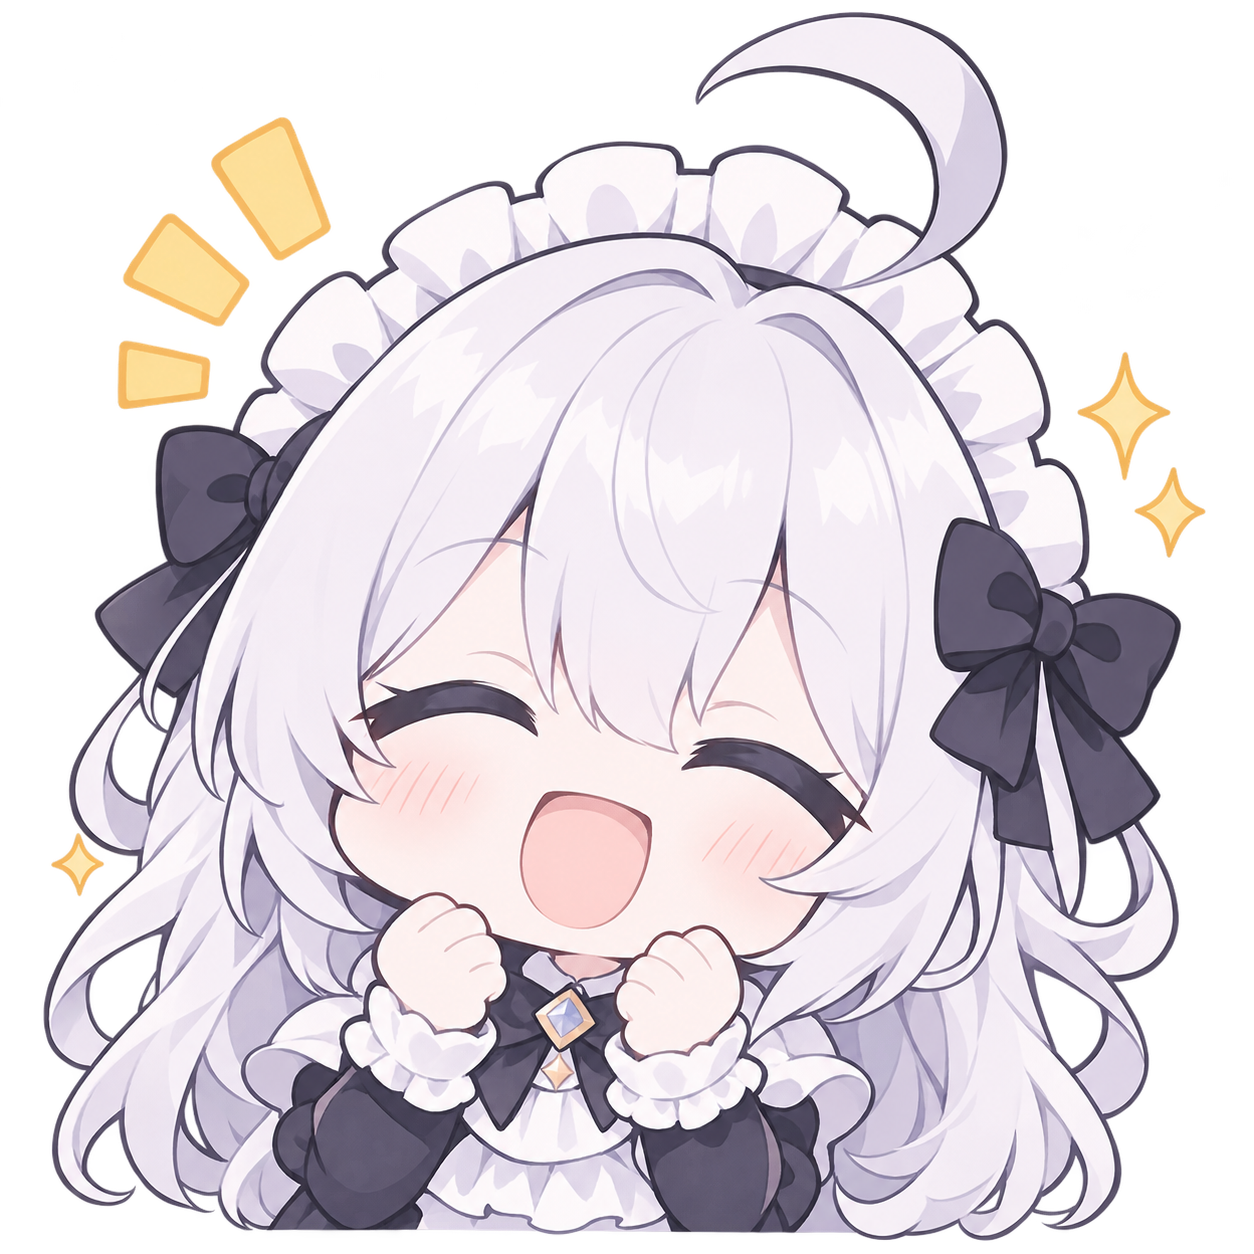
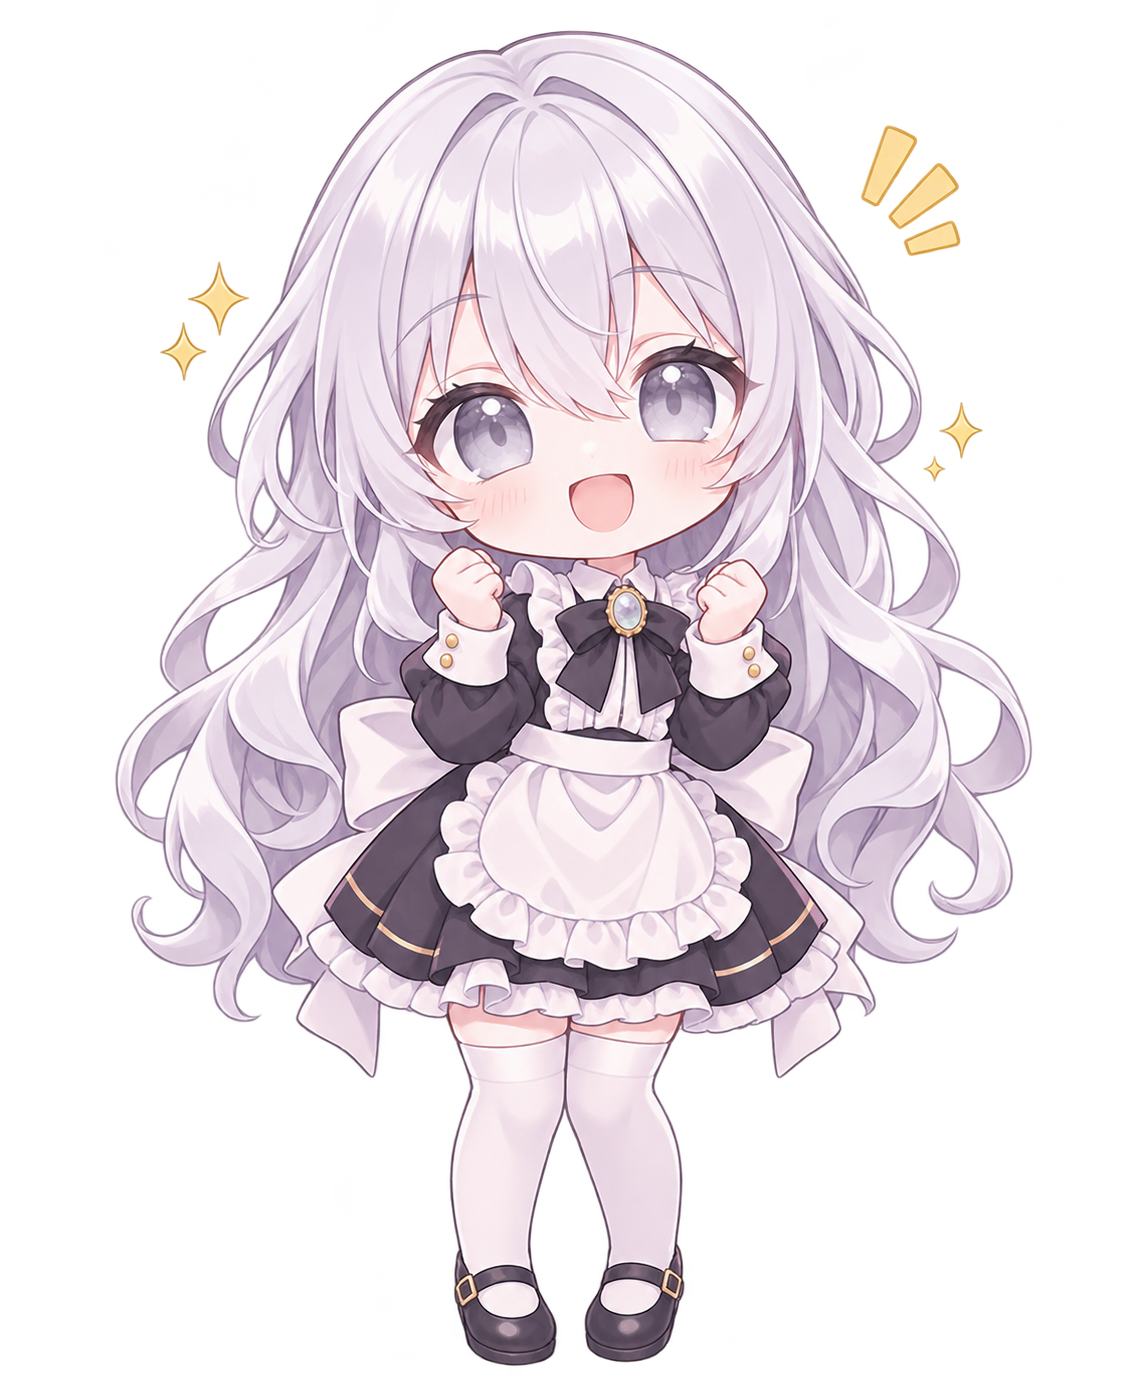
feat: add calibrated idle and happy expression switching

diff --git a/Luchi.DesktopPet/MainWindow.xaml b/Luchi.DesktopPet/MainWindow.xaml
@@ -51,25 +51,58 @@
                Stretch="Uniform"
                HorizontalAlignment="Center"
                VerticalAlignment="Center"
-               RenderTransformOrigin="0.5,1"
                Cursor="Hand">
 
             <Image.RenderTransform>
                 <ScaleTransform x:Name="PetScale"
                                 ScaleX="1"
-                                ScaleY="1" />
+                                ScaleY="1"
+                                CenterX="140"
+                                CenterY="270" />
             </Image.RenderTransform>
 
             <Image.ContextMenu>
                 <ContextMenu>
                     <MenuItem Header="隱藏露希"
-                              Click="HideMenuItem_Click" />
+                            Click="HideMenuItem_Click" />
                     <Separator />
                     <MenuItem Header="離開"
-                              Click="ExitMenuItem_Click" />
+                            Click="ExitMenuItem_Click" />
                 </ContextMenu>
             </Image.ContextMenu>
 
         </Image>
+
+        <Canvas x:Name="CalibrationGuide"
+                Grid.Row="1"
+                Width="280"
+                Height="280"
+                HorizontalAlignment="Center"
+                VerticalAlignment="Center"
+                Visibility="Collapsed"
+                IsHitTestVisible="False">
+
+            <Line X1="10"
+                Y1="20"
+                X2="270"
+                Y2="20"
+                Stroke="#808080"
+                StrokeThickness="1"
+                StrokeDashArray="4,4" />
+
+            <Line X1="10"
+                Y1="270"
+                X2="270"
+                Y2="270"
+                Stroke="#E08835"
+                StrokeThickness="1" />
+
+            <Line X1="140"
+                Y1="260"
+                X2="140"
+                Y2="279"
+                Stroke="#E08835"
+                StrokeThickness="1" />
+        </Canvas>
     </Grid>
 </Window>

diff --git a/Luchi.DesktopPet/PetSpriteFactory.cs b/Luchi.DesktopPet/PetSpriteFactory.cs
@@ -1,0 +1,101 @@
+using System;
+using System.Windows;
+using System.Windows.Media;
+using System.Windows.Media.Imaging;
+
+namespace Luchi.DesktopPet
+{
+    internal static class PetSpriteFactory
+    {
+        private const double CanvasSize = 280;
+        private const double TargetCharacterHeight = 250;
+
+        private static readonly Point TargetFootAnchor =
+            new Point(140, 270);
+
+        public static ImageSource Create(
+            string resourcePath,
+            int expectedWidth,
+            int expectedHeight,
+            double headTopY,
+            Point footAnchor)
+        {
+            var bitmap = new BitmapImage();
+
+            bitmap.BeginInit();
+            bitmap.CacheOption = BitmapCacheOption.OnLoad;
+            bitmap.UriSource = new Uri(
+                $"pack://application:,,,/{resourcePath}",
+                UriKind.Absolute);
+            bitmap.EndInit();
+
+            if (bitmap.PixelWidth != expectedWidth
+                || bitmap.PixelHeight != expectedHeight)
+            {
+                throw new InvalidOperationException(
+                    $"{resourcePath} 的尺寸為 "
+                    + $"{bitmap.PixelWidth} × {bitmap.PixelHeight}，"
+                    + $"預期為 {expectedWidth} × {expectedHeight}。"
+                    + "請確認使用的素材版本。");
+            }
+
+            if (headTopY < 0
+                || footAnchor.Y <= headTopY
+                || footAnchor.Y >= bitmap.PixelHeight
+                || footAnchor.X < 0
+                || footAnchor.X >= bitmap.PixelWidth)
+            {
+                throw new ArgumentException(
+                    $"{resourcePath} 的角色高度或腳底錨點設定不正確。");
+            }
+
+            bitmap.Freeze();
+
+            double sourceCharacterHeight =
+                footAnchor.Y - headTopY;
+
+            double scale =
+                TargetCharacterHeight / sourceCharacterHeight;
+
+            double left =
+                TargetFootAnchor.X - footAnchor.X * scale;
+
+            double top =
+                TargetFootAnchor.Y - footAnchor.Y * scale;
+
+            var imageBounds = new Rect(
+                left,
+                top,
+                bitmap.PixelWidth * scale,
+                bitmap.PixelHeight * scale);
+
+            var canvasBounds = new Rect(
+                0,
+                0,
+                CanvasSize,
+                CanvasSize);
+
+            var drawing = new DrawingGroup
+            {
+                ClipGeometry = new RectangleGeometry(canvasBounds)
+            };
+
+            using (DrawingContext context = drawing.Open())
+            {
+                // 固定輸出畫布的尺寸與透明留白。
+                context.DrawRectangle(
+                    Brushes.Transparent,
+                    null,
+                    canvasBounds);
+
+                // 將完整原圖等比例繪製到校準後的位置。
+                context.DrawImage(bitmap, imageBounds);
+            }
+
+            var result = new DrawingImage(drawing);
+            result.Freeze();
+
+            return result;
+        }
+    }
+}

diff --git a/Luchi.DesktopPet/MainWindow.xaml.cs b/Luchi.DesktopPet/MainWindow.xaml.cs
@@ -13,6 +13,8 @@ namespace Luchi.DesktopPet
     {
         private Point _pressStartPosition;
         private bool _isPressPending;
+        private readonly ImageSource _idleSprite;
+        private readonly ImageSource _happySprite;
 
         private readonly DispatcherTimer _bubbleTimer =
             new DispatcherTimer
@@ -28,11 +30,26 @@ namespace Luchi.DesktopPet
         {
             InitializeComponent();
 
+            _idleSprite = PetSpriteFactory.Create(
+                "Assets/luchi-idle.png",
+                1186,
+                1327,
+                21,
+                new Point(580, 1314));
+
+            _happySprite = PetSpriteFactory.Create(
+                "Assets/luchi-happy.png",
+                1142,
+                1377,
+                31,
+                new Point(568.5, 1365));
+
+            PetImage.Source = _idleSprite;
+
             _bubbleTimer.Tick += BubbleTimer_Tick;
 
             _trayMenu = CreateTrayMenu();
 
-            // 複製 Windows 內建圖示，作為目前的佔位圖示。
             _trayIconImage =
                 (Drawing.Icon)Drawing.SystemIcons.Application.Clone();
 
@@ -45,6 +62,36 @@ namespace Luchi.DesktopPet
 
             _trayIcon.MouseDoubleClick += TrayIcon_MouseDoubleClick;
             _trayIcon.Visible = true;
+        }
+
+        private void ReturnToIdle()
+        {
+            HideSpeechBubble();
+            ResetPetScale();
+
+            PetImage.Source = _idleSprite;
+        }
+
+        private void PreviewIdleMenuItem_Click(
+            object sender,
+            RoutedEventArgs e)
+        {
+            EndPress();
+            HideSpeechBubble();
+            ResetPetScale();
+
+            PetImage.Source = _idleSprite;
+        }
+
+        private void PreviewHappyMenuItem_Click(
+            object sender,
+            RoutedEventArgs e)
+        {
+            EndPress();
+            HideSpeechBubble();
+            ResetPetScale();
+
+            PetImage.Source = _happySprite;
         }
 
         private Forms.ContextMenuStrip CreateTrayMenu()
@@ -98,8 +145,7 @@ namespace Luchi.DesktopPet
         private void HidePet()
         {
             EndPress();
-            HideSpeechBubble();
-            ResetPetScale();
+            ReturnToIdle();
             Hide();
         }
 
@@ -172,8 +218,7 @@ namespace Luchi.DesktopPet
             e.Handled = true;
 
             EndPress();
-            HideSpeechBubble();
-            ResetPetScale();
+            ReturnToIdle();
 
             if (Mouse.LeftButton == MouseButtonState.Pressed)
             {
@@ -283,6 +328,7 @@ namespace Luchi.DesktopPet
 
         private void ShowClickReaction()
         {
+            PetImage.Source = _happySprite;
             PlayClickAnimation();
 
             BubbleText.Text = "主人，怎麼了？";
@@ -300,7 +346,7 @@ namespace Luchi.DesktopPet
 
         private void BubbleTimer_Tick(object? sender, EventArgs e)
         {
-            HideSpeechBubble();
+            ReturnToIdle();
         }
 
         private void HideMenuItem_Click(
